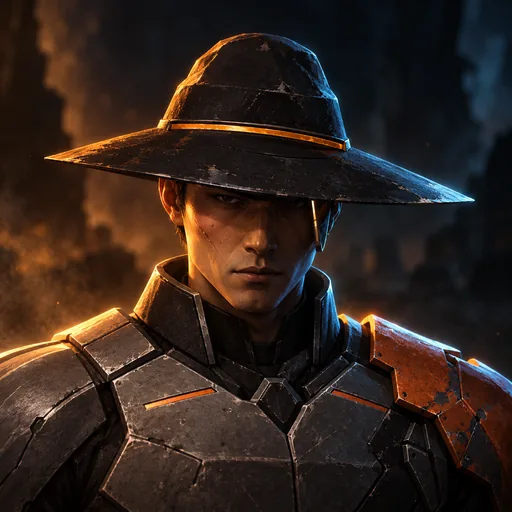
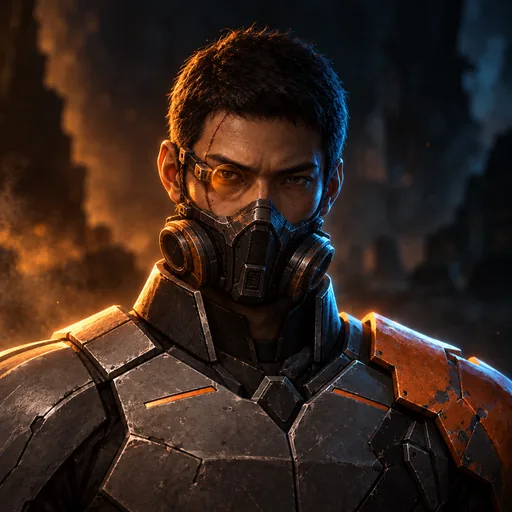
Painted art complete: final Choir portraits, commander, HALCYON/Defense Matrix/Kade/Progenitor redos

diff --git a/js/painted.js b/js/painted.js
@@ -1,3 +1,3 @@
 'use strict';
 // Generated by tools/art/ingest.py: plates that have painted art in art/cards and art/portraits.
-const PAINTED = {"cards":["abyssal_maw","acid_rain","acid_spitter","aegis_sentinel","arc_coil","archivist","assault_drone","assembler","aurora","barricade","battlecruiser","black_market","blood_leech","boarding_crew","breach_commando","broadside","brood_warrior","broodmother","bulwark_mech","cadet","calculus","cargo_hauler","chain_lightning","chitin_guard","choir_echo","cluster_cannon","combat_knife","combat_stims","cryo_nova","cryo_sentry","deflector_grid","det_bot","devourer_worm","devouring_dark","dig_in","disruptor","dominate","dreadnought","drone","echo_protocol","emp_blast","emp_trooper","energy_cell","entropy_wave","field_engineer","field_repair","flak_barrage","fleet_captain","foresight","fortify","frenzied_ripper","frost_lance","gatling_drone","ghost_operative","glacial_titan","grav_snare","gunrunner","harpoon_gun","heavy_trooper","herald_of_end","hive_mind","hive_reaper","hive_surge","hover_tank","infest","interceptor","ion_lancer","ixis","junk_drone","kill_order","kinetic_barrier","lamprey","larva","life_drain","lightning_arc","marine","medic_bot","mind_blast","mind_seer","mine_layer","mirror_field","mox","nanobot","nanoforge","null_horror","nyra","okonkwo","orbital_strike","overclocked_mech","overdrive","patrol_frigate","phase_stalker","plasma_bolt","plasma_cutlass","plating_tech","plunderer","probe_unit","progenitor","psi_adept","psionic_horror","psionic_null","psionic_storm","quartermaster","rail_rifle","railgun","rapid_mutation","reactor_core","recon_officer","reinforcements","repair_drone","rhino_tank","rifle_squad","salvage_crew","salvaged_hull","sapper","scout_drone","scrap_golem","scrap_rat","shadow_corsair","shakedown","shield_drone","shield_trooper","shipbreaker","shock_baton","siege_gunner","smoke_screen","smuggler","sniper_mine","spawn_surge","spore_carrier","star_cruiser","storm_titan","strike_fighter","supply_drop","swarmling","target_dummy","telepath","toxic_spitter","unit_zero","unmaking","venom_stinger","vent_heat","vex","void_initiate","void_oracle","void_shards","void_wisp","war_walker"],"portraits":{"Sim Drone Pilot":"portrait-sim-drone-pilot","Sim Gunnery Officer":"portrait-sim-gunnery-officer","Sim Fortress":"portrait-sim-fortress","Sim Commander Vale":"portrait-sim-commander-vale","Sim Bastion":"portrait-sim-bastion","Sim Strike Wing":"portrait-sim-strike-wing","HALCYON":"portrait-halcyon","Belt Tollmaster":"portrait-belt-tollmaster","Gunsmith Rourke":"portrait-gunsmith-rourke","Scrapper King Ott":"portrait-scrapper-king-ott","Sable, Smuggler Queen":"portrait-sable-smuggler-queen","Kade the Bounty Hunter":"portrait-kade-the-bounty-hunter","Raider Wing Leader":"portrait-raider-wing-leader","Captain Vex":"portrait-captain-vex","Hive Overseer":"portrait-hive-overseer","Leech Matron":"portrait-leech-matron","Brood Tender":"portrait-brood-tender","Ripper Alpha":"portrait-ripper-alpha","The Hivewarden":"portrait-the-hivewarden","Royal Guard Thorax":"portrait-royal-guard-thorax","Ixis, Brood Queen":"portrait-ixis-brood-queen","Gate Warden Unit":"portrait-gate-warden-unit","Jammer Array":"portrait-jammer-array","Line Supervisor":"portrait-line-supervisor","Reactor Overseer":"portrait-reactor-overseer","Defense Matrix":"portrait-defense-matrix","Siege Engine Mk IX":"portrait-siege-engine-mk-ix","Calculus Prime":"portrait-calculus-prime","Void Acolyte Choir":"portrait-void-acolyte-choir","Cryomancer Vel":"portrait-cryomancer-vel","Archivist Prime":"portrait-archivist-prime","Snare Mistress Ilu":"portrait-snare-mistress-ilu","The Twin Minds":"portrait-the-twin-minds","The Null Choir":"portrait-the-null-choir","Nyra, Void Hierarch":"portrait-nyra-void-hierarch","Vex Reborn":"portrait-vex-reborn","Ixis Ascendant":"portrait-ixis-ascendant","Calculus Omega":"portrait-calculus-omega","Nyra Unbound":"portrait-nyra-unbound","HALCYON (Corrupted)":"portrait-halcyon-corrupted"}};
+const PAINTED = {"cards":["abyssal_maw","acid_rain","acid_spitter","aegis_sentinel","arc_coil","archivist","assault_drone","assembler","aurora","barricade","battlecruiser","black_market","blood_leech","boarding_crew","breach_commando","broadside","brood_warrior","broodmother","bulwark_mech","cadet","calculus","cargo_hauler","chain_lightning","chitin_guard","choir_echo","cluster_cannon","combat_knife","combat_stims","cryo_nova","cryo_sentry","deflector_grid","det_bot","devourer_worm","devouring_dark","dig_in","disruptor","dominate","dreadnought","drone","echo_protocol","emp_blast","emp_trooper","energy_cell","entropy_wave","field_engineer","field_repair","flak_barrage","fleet_captain","foresight","fortify","frenzied_ripper","frost_lance","gatling_drone","ghost_operative","glacial_titan","grav_snare","gunrunner","harpoon_gun","heavy_trooper","herald_of_end","hive_mind","hive_reaper","hive_surge","hover_tank","infest","interceptor","ion_lancer","ixis","junk_drone","kill_order","kinetic_barrier","lamprey","larva","life_drain","lightning_arc","marine","medic_bot","mind_blast","mind_seer","mine_layer","mirror_field","mox","nanobot","nanoforge","null_horror","nyra","okonkwo","orbital_strike","overclocked_mech","overdrive","patrol_frigate","phase_stalker","plasma_bolt","plasma_cutlass","plating_tech","plunderer","probe_unit","progenitor","psi_adept","psionic_horror","psionic_null","psionic_storm","quartermaster","rail_rifle","railgun","rapid_mutation","reactor_core","recon_officer","reinforcements","repair_drone","rhino_tank","rifle_squad","salvage_crew","salvaged_hull","sapper","scout_drone","scrap_golem","scrap_rat","shadow_corsair","shakedown","shield_drone","shield_trooper","shipbreaker","shock_baton","siege_gunner","smoke_screen","smuggler","sniper_mine","spawn_surge","spore_carrier","star_cruiser","storm_titan","strike_fighter","supply_drop","swarmling","target_dummy","telepath","toxic_spitter","unit_zero","unmaking","venom_stinger","vent_heat","vex","void_initiate","void_oracle","void_shards","void_wisp","war_walker"],"portraits":{"Sim Drone Pilot":"portrait-sim-drone-pilot","Sim Gunnery Officer":"portrait-sim-gunnery-officer","Sim Fortress":"portrait-sim-fortress","Sim Commander Vale":"portrait-sim-commander-vale","Sim Bastion":"portrait-sim-bastion","Sim Strike Wing":"portrait-sim-strike-wing","HALCYON":"portrait-halcyon","Belt Tollmaster":"portrait-belt-tollmaster","Gunsmith Rourke":"portrait-gunsmith-rourke","Scrapper King Ott":"portrait-scrapper-king-ott","Sable, Smuggler Queen":"portrait-sable-smuggler-queen","Kade the Bounty Hunter":"portrait-kade-the-bounty-hunter","Raider Wing Leader":"portrait-raider-wing-leader","Captain Vex":"portrait-captain-vex","Hive Overseer":"portrait-hive-overseer","Leech Matron":"portrait-leech-matron","Brood Tender":"portrait-brood-tender","Ripper Alpha":"portrait-ripper-alpha","The Hivewarden":"portrait-the-hivewarden","Royal Guard Thorax":"portrait-royal-guard-thorax","Ixis, Brood Queen":"portrait-ixis-brood-queen","Gate Warden Unit":"portrait-gate-warden-unit","Jammer Array":"portrait-jammer-array","Line Supervisor":"portrait-line-supervisor","Reactor Overseer":"portrait-reactor-overseer","Defense Matrix":"portrait-defense-matrix","Siege Engine Mk IX":"portrait-siege-engine-mk-ix","Calculus Prime":"portrait-calculus-prime","Void Acolyte Choir":"portrait-void-acolyte-choir","Cryomancer Vel":"portrait-cryomancer-vel","Archivist Prime":"portrait-archivist-prime","Snare Mistress Ilu":"portrait-snare-mistress-ilu","The Twin Minds":"portrait-the-twin-minds","The Null Choir":"portrait-the-null-choir","Nyra, Void Hierarch":"portrait-nyra-void-hierarch","Vex Reborn":"portrait-vex-reborn","Ixis Ascendant":"portrait-ixis-ascendant","Calculus Omega":"portrait-calculus-omega","Nyra Unbound":"portrait-nyra-unbound","HALCYON (Corrupted)":"portrait-halcyon-corrupted","Herald of the Choir":"portrait-herald-of-the-choir","The Choir Awakened":"portrait-the-choir-awakened","The Devourer Eternal":"portrait-the-devourer-eternal","commander":"portrait-commander"}};

diff --git a/sw.js b/sw.js
@@ -4,7 +4,7 @@
 // Network first, so a new build shows up as soon as you're online; the cache
 // is the fallback when you're not. Bump VERSION to drop old caches.
 // ============================================================================
-const VERSION = 'starfall-b24';
+const VERSION = 'starfall-b25';
 const SHELL = [
   './', 'index.html', 'manifest.webmanifest', 'css/style.css', 'js/build.js', 'audio/silence.mp3',
   'js/engine.js', 'js/audio.js', 'js/cards.js', 'js/ai.js', 'js/campaign.js', 'js/economy.js', 'js/station.js', 'js/lore.js', 'js/cinematics.js', 'js/vo.js',

diff --git a/js/build.js b/js/build.js
@@ -1,3 +1,3 @@
 'use strict';
 // Generated by tools/stamp_build.py
-const BUILD = { n: 24, date: '2026-10-14' };
+const BUILD = { n: 25, date: '2026-10-14' };
